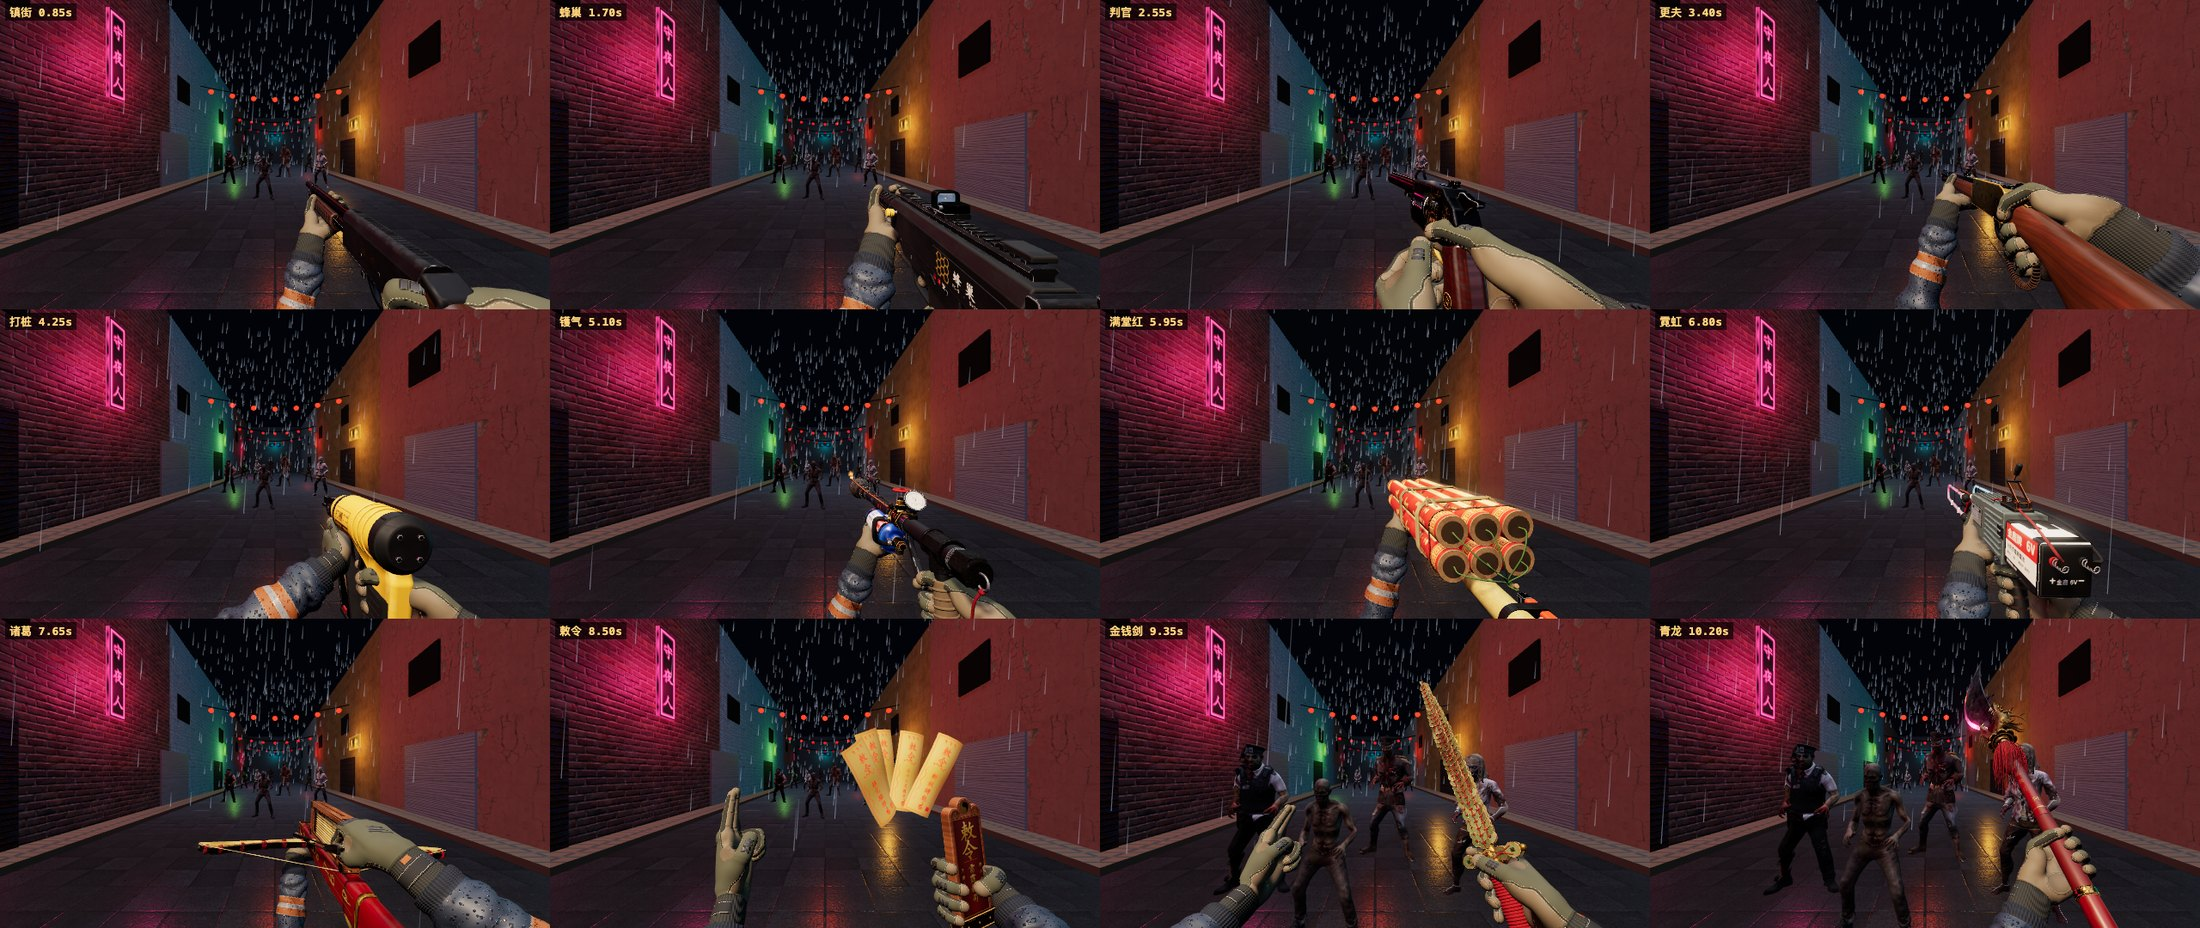
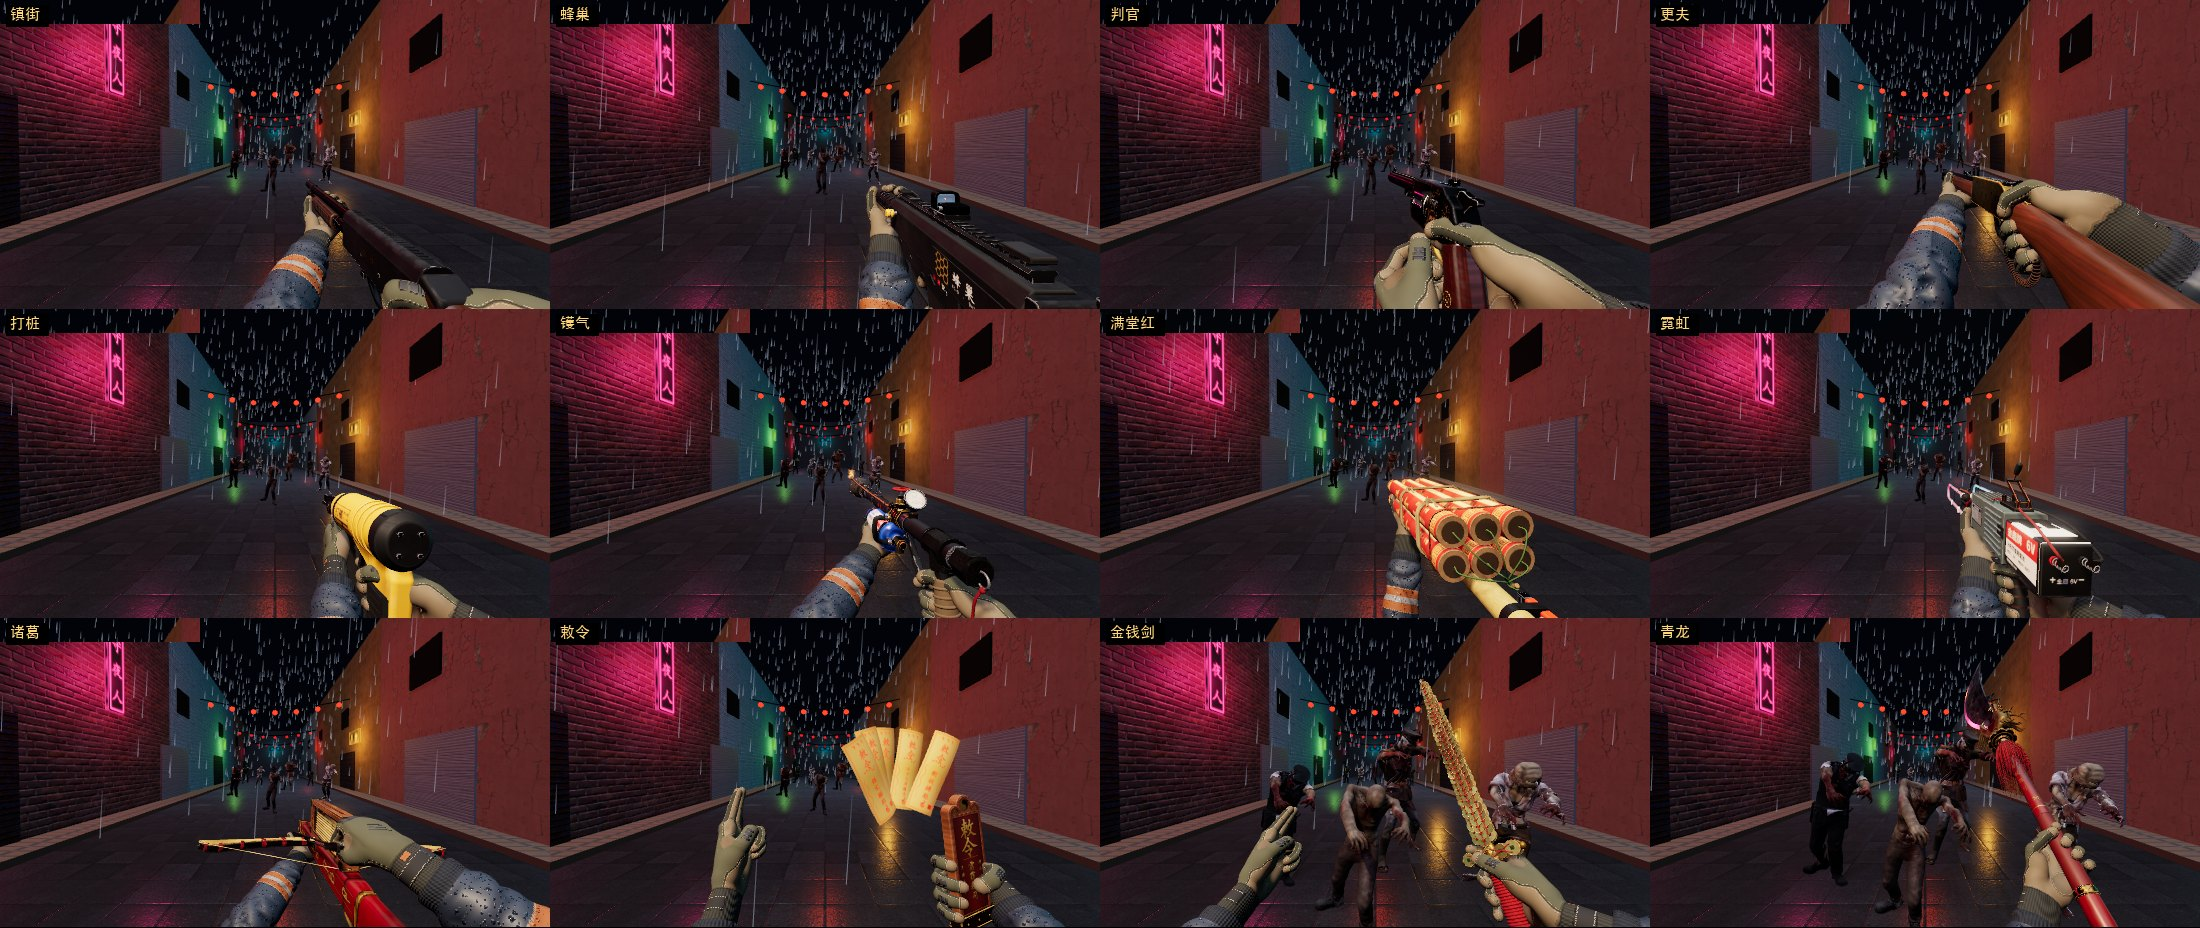
Keep the support hand's wrist straight (#13)
* Keep the support hand's wrist straight

The arm solver only minded a wrist once it was past its limits, and the
limits let it fold seventy or eighty degrees: the left forearm came
straight up under the weapon and the hand sat on it at a right angle
(45 to 77 degrees on half the weapons).

For the support hand the bend itself now counts, growing with the square
of what is past a relaxed angle, so the elbow swings to where the forearm
lines up with the hand; and the hand may turn a little on its grip to take
the rest out (17 degrees about the palm, 26 round what it holds; a grip
can set its own with `give`). An elbow that has found its place does not
leave it for a small gain far round the circle.

At rest the support wrist goes from 49 to 22 degrees on average, its worst
moment while firing and reloading from 73 to 49, and it is past its limits
less often than before. The trigger hand is solved exactly as it was.

Assisted-by: Cindy (https://cindy.app)

* Retake the picture of the hands on the twelve weapons

Assisted-by: Cindy (https://cindy.app)

Changed region(s): [[0.0, 0.0, 1.0, 1.0], [0.9582, 0.6562, 0.9891, 0.6875]]

diff --git a/arsenal/src/kit/hands.js b/arsenal/src/kit/hands.js
@@ -36,6 +36,32 @@ const LEAN_ANGLE = 0.9,
 const POLE_STEPS = 24,
   POLE_BIAS = 0.12,
   POLE_STICK = 0.05;
+// A wrist inside its limits is not yet a comfortable wrist: the game's limits let it bend
+// seventy or eighty degrees, and a hand at a right angle to its forearm looks broken long
+// before it is. So the bend itself is a strain, free up to a relaxed angle and growing with
+// the square of what is past it: [free (rad), weight] for bending forward or back, for
+// tilting to the thumb or little-finger side (a wrist has far less of that), and for the
+// forearm's twist.
+const EASE = { flex: [0.3, 1.1], dev: [0.14, 2.2], twist: [0.9, 0.6] };
+// (and what is past the limits counts double: easing the bend must not be paid for by
+// wringing the forearm round further than it goes)
+const PAST = 2;
+// This is the support hand's: the trigger hand is where the weapon's grip puts it, with a
+// finger on the trigger, and its arm is judged by its limits alone as before.
+const EASED = { left: true, right: false };
+// An elbow that has found its place should not leave it for a little gain somewhere far
+// round the circle (it would swing through worse on the way): what a new place costs, per
+// unit of 1 - cos of the angle from where the elbow is now.
+const POLE_TRAVEL = 0.2;
+// And a hand on a weapon is not bolted to it. It may turn a little where it lies to take the
+// kink out of the wrist: about the palm (the fingers cross the fore-end at more or less of a
+// slant) and round the thing it holds (the palm slides from under it towards its side).
+// [turn about the palm, slide round the handle] in radians, at most, for each hand: the
+// trigger hand stays exactly where the weapon put it. A grip can set its own with `give`.
+const GIVE = { left: [0.3, 0.45], right: [0, 0] };
+const GIVE_STEP = 0.06, // how far it looks to either side each frame
+  GIVE_COST = [0.6, 0.3], // what turning away from the grip as drawn costs (per rad squared)
+  HANDLE = 0.022; // palm to the middle of what it holds (m): what the slide goes round
 
 // ---------------------------------------------------------------- poses
 // fingers: [knuckle, middle joint, end joint, spread] in radians (0 = straight, ~1.5 = fully bent)
@@ -233,7 +259,26 @@ const _m = new THREE.Matrix4(),
   _base = new V3(),
   _perp = new V3(),
   _eyeInv = new THREE.Matrix4(),
-  _e = new THREE.Euler();
+  _e = new THREE.Euler(),
+  _qg = new THREE.Quaternion(),
+  _qt = new THREE.Quaternion(),
+  _core = new V3(),
+  _off = new V3();
+const AXIS_X = new V3(1, 0, 0),
+  AXIS_Y = new V3(0, 1, 0);
+const over = (v, free) => Math.max(0, Math.abs(v) - free);
+/** How hard a solved arm is on its wrist: past its limits, and how far from relaxed inside them. */
+function strain(ik) {
+  const f = over(ik.wristFlex, EASE.flex[0]),
+    d = over(ik.wristDeviation, EASE.dev[0]),
+    t = over(ik.twist, EASE.twist[0]);
+  return (
+    PAST * ik.violation +
+    EASE.flex[1] * f * f +
+    EASE.dev[1] * d * d +
+    EASE.twist[1] * t * t
+  );
+}
 // where a hand goes when it lets go of the weapon (reloading, weapon thrown): eye space
 const AWAY_VIEW = {
   right: new V3(0.3, -0.52, -0.16),
@@ -316,6 +361,8 @@ export function createArms(kit) {
   const away = { right: 0, left: 0 };
   const joints = { right: new Float32Array(20), left: new Float32Array(20) };
   const poles = { right: new V3(), left: new V3() };
+  // how far each hand has turned on its grip to ease its wrist: [about the palm, round the handle]
+  const gives = { right: [0, 0], left: [0, 0] };
   let last = null;
 
   const mixPose = (a, b, e) => {
@@ -380,73 +427,153 @@ export function createArms(kit) {
       _p.lerp(AWAY_VIEW[side], e);
       _q.slerp(AWAY_TURN[side], e);
     }
-    // the hand bone: turned round from grip space, its wrist behind the palm
-    _qh.copy(_q).multiply(GRIP_TO_BONE);
-    _wrist.copy(PALM_BONE).applyQuaternion(_qh).negate().add(_p);
+    const hurt = EASED[side] ? strain : (r) => r.violation;
+    // The hand bone: turned round from grip space, its wrist behind the palm. The hand may
+    // have turned a little on its grip (see GIVE): about the palm, and round the middle of
+    // what it holds, which stays where it is.
+    _core.set(0, -HANDLE, 0).applyQuaternion(_q).add(_p);
+    const handAt = (yaw, roll) => {
+      _qg.copy(_q);
+      if (yaw) _qg.multiply(_qt.setFromAxisAngle(AXIS_Y, yaw));
+      if (roll) _qg.multiply(_qt.setFromAxisAngle(AXIS_X, roll));
+      _qh.copy(_qg).multiply(GRIP_TO_BONE);
+      _off.set(0, -HANDLE, 0).applyQuaternion(_qg);
+      _wrist.copy(PALM_BONE).applyQuaternion(_qh).negate().add(_core).sub(_off);
+    };
+    const give = gives[side];
+    const lim = grip.give || GIVE[side];
+    // (a hand that has let go has nothing to turn on)
+    const free = o.mode === "fp" ? 1 - k * k * (3 - 2 * k) : 1;
+    const maxYaw = lim[0] * free,
+      maxRoll = lim[1] * free;
+    const clampGive = () => {
+      give[0] = Math.max(-maxYaw, Math.min(maxYaw, give[0]));
+      give[1] = Math.max(-maxRoll, Math.min(maxRoll, give[1]));
+    };
+    if (o.snap) give[0] = give[1] = 0;
+    clampGive();
+    handAt(give[0], give[1]);
+    const pole = poles[side];
+    _eyeInv.copy(eye).invert();
+    // (the showcase has no eye, but its arms are placed as the shooter's would be, so they are
+    // judged from where the shooter's eye would be and come out the same as in first person)
+    const seen = (e) => inView(_el.copy(e).applyMatrix4(_eyeInv));
     // Shoulder. A weapon is often held further out than the arm is long. The shoulder then
     // comes forward (the shooter leans in) and sinks, staying on its own side of the body, so
     // the arm still reaches in from the lower corner on its side: the upper arm and elbow
     // stay under the frame and the forearm rises into the picture at a slant.
-    _sh.fromArray(GH.SHOULDER[side]);
-    _eyeInv.copy(eye).invert();
-    _w.copy(_wrist).applyMatrix4(_eyeInv); // wrist in eye space (x right, y up, -z forward)
-    const far = _sh.distanceTo(_w) - REACH;
-    if (far > 0) {
-      const dx = _w.x - _sh.x;
-      if (Math.abs(dx) < REACH * 0.92) {
-        // on the circle of reach behind and below the wrist: from the angle the shoulder
-        // already sits at below the hand, towards LEAN_ANGLE as the reach gets longer
-        const rho = Math.sqrt(REACH * REACH - dx * dx);
-        const a0 = Math.atan2(_w.y - _sh.y, _sh.z - _w.z);
-        const a = a0 + Math.max(0, LEAN_ANGLE - a0) * sat(far / LEAN_OVER);
-        _sh.y = _w.y - rho * Math.sin(a);
-        _sh.z = _w.z + rho * Math.cos(a);
-      } else {
-        // a hand far out to the side: nothing for it but to follow
-        _sh.y -= Math.min(0.4, 1.2 * far);
-        _sh.sub(_w).setLength(REACH).add(_w);
+    const shoulder = () => {
+      _sh.fromArray(GH.SHOULDER[side]);
+      _w.copy(_wrist).applyMatrix4(_eyeInv); // wrist in eye space (x right, y up, -z forward)
+      const far = _sh.distanceTo(_w) - REACH;
+      if (far > 0) {
+        const dx = _w.x - _sh.x;
+        if (Math.abs(dx) < REACH * 0.92) {
+          // on the circle of reach behind and below the wrist: from the angle the shoulder
+          // already sits at below the hand, towards LEAN_ANGLE as the reach gets longer
+          const rho = Math.sqrt(REACH * REACH - dx * dx);
+          const a0 = Math.atan2(_w.y - _sh.y, _sh.z - _w.z);
+          const a = a0 + Math.max(0, LEAN_ANGLE - a0) * sat(far / LEAN_OVER);
+          _sh.y = _w.y - rho * Math.sin(a);
+          _sh.z = _w.z + rho * Math.cos(a);
+        } else {
+          // a hand far out to the side: nothing for it but to follow
+          _sh.y -= Math.min(0.4, 1.2 * far);
+          _sh.sub(_w).setLength(REACH).add(_w);
+        }
       }
-    }
-    _sh.applyMatrix4(eye);
-    // Elbow. It points out and down by default, as the game has it, but a hand turned palm-up
-    // under a fore-end (or far over on its side) needs the elbow somewhere else or the wrist is
-    // bent past what a wrist can do. So the elbow is swung round the shoulder-wrist line to
-    // where the wrist is most comfortable, staying near the default when there is little in
-    // it, and it moves there smoothly.
-    const pole = poles[side];
-    _axis.subVectors(_wrist, _sh).normalize();
-    _base.fromArray(GH.DEFAULT_POLE[side]).transformDirection(eye);
-    _base.addScaledVector(_axis, -_base.dot(_axis)).normalize();
-    _perp.crossVectors(_axis, _base);
+      _sh.applyMatrix4(eye);
+      _axis.subVectors(_wrist, _sh).normalize();
+      _base.fromArray(GH.DEFAULT_POLE[side]).transformDirection(eye);
+      _base.addScaledVector(_axis, -_base.dot(_axis)).normalize();
+      _perp.crossVectors(_axis, _base);
+    };
+    shoulder();
     if (o.snap || pole.lengthSq() < 0.5) pole.copy(_base);
     pole.addScaledVector(_axis, -pole.dot(_axis)).normalize();
     // (the first solve of the frame also tells the arm how far the wrist has moved, which its
     // own follow-through in update() feeds on, so update() comes straight after it)
-    // (the showcase has no eye, but its arms are placed as the shooter's would be, so they are
-    // judged from where the shooter's eye would be and come out the same as in first person)
-    const seen = (e) => inView(_el.copy(e).applyMatrix4(_eyeInv));
     let ik = arm.solve(_sh, _wrist, _qh, pole, null);
-    const before =
-      ik.violation + POLE_BIAS * (1 - pole.dot(_base)) + seen(ik.elbow);
     arm.update(dt);
-    let best = before - POLE_STICK,
-      bestC = 2,
-      bestS = 0;
-    for (let i = 0; i < POLE_STEPS; i++) {
-      const a = (i / POLE_STEPS) * Math.PI * 2,
-        c = Math.cos(a),
-        sn = Math.sin(a);
-      _pole.copy(_base).multiplyScalar(c).addScaledVector(_perp, sn);
-      ik = arm.solve(_sh, _wrist, _qh, _pole, null);
-      const score = ik.violation + POLE_BIAS * (1 - c) + seen(ik.elbow);
-      if (score < best) ((best = score), (bestC = c), (bestS = sn));
-    }
-    if (bestC <= 1) {
+    // Elbow. It points out and down by default, as the game has it, but a hand turned palm-up
+    // under a fore-end (or far over on its side) needs the elbow somewhere else or the wrist is
+    // bent further than a wrist likes. So the elbow is swung round the shoulder-wrist line to
+    // where the wrist is easiest, staying near the default when there is little in it.
+    const swing = (rate, travel) => {
+      ik = arm.solve(_sh, _wrist, _qh, pole, null);
+      let best =
+          hurt(ik) +
+          POLE_BIAS * (1 - pole.dot(_base)) +
+          seen(ik.elbow) -
+          POLE_STICK,
+        bestC = 2,
+        bestS = 0;
+      for (let i = 0; i < POLE_STEPS; i++) {
+        const a = (i / POLE_STEPS) * Math.PI * 2,
+          c = Math.cos(a),
+          sn = Math.sin(a);
+        _pole.copy(_base).multiplyScalar(c).addScaledVector(_perp, sn);
+        ik = arm.solve(_sh, _wrist, _qh, _pole, null);
+        const score =
+          hurt(ik) +
+          POLE_BIAS * (1 - c) +
+          seen(ik.elbow) +
+          travel * (1 - _pole.dot(pole));
+        if (score < best) ((best = score), (bestC = c), (bestS = sn));
+      }
+      if (bestC > 1) return;
       _pole.copy(_base).multiplyScalar(bestC).addScaledVector(_perp, bestS);
-      pole.lerp(_pole, o.snap ? 1 : Math.min(1, dt * 14));
+      pole.lerp(_pole, rate);
       // (straight through the middle when the target is opposite: step sideways instead)
       if (pole.lengthSq() < 1e-4) pole.copy(_perp);
       pole.normalize();
+    };
+    // The hand. With the elbow where it is, would the wrist be easier if the hand lay a
+    // little differently on the weapon? One small step each way about the palm and round the
+    // handle; it goes towards whichever is best, and pays for how far it has turned.
+    const settle = (rate) => {
+      if (!(maxYaw > 0 || maxRoll > 0)) return;
+      const at = (yaw, roll) => {
+        handAt(yaw, roll);
+        const r = arm.solve(_sh, _wrist, _qh, pole, null);
+        return (
+          hurt(r) +
+          seen(r.elbow) +
+          GIVE_COST[0] * yaw * yaw +
+          GIVE_COST[1] * roll * roll
+        );
+      };
+      let best = at(give[0], give[1]) - 0.004,
+        by = give[0],
+        br = give[1];
+      for (const [dy, dr] of [
+        [GIVE_STEP, 0],
+        [-GIVE_STEP, 0],
+        [0, GIVE_STEP],
+        [0, -GIVE_STEP],
+      ]) {
+        const y = Math.max(-maxYaw, Math.min(maxYaw, give[0] + dy)),
+          r = Math.max(-maxRoll, Math.min(maxRoll, give[1] + dr));
+        if (y === give[0] && r === give[1]) continue;
+        const c = at(y, r);
+        if (c < best) ((best = c), (by = y), (br = r));
+      }
+      give[0] += (by - give[0]) * rate;
+      give[1] += (br - give[1]) * rate;
+      handAt(give[0], give[1]);
+      shoulder();
+      pole.addScaledVector(_axis, -pole.dot(_axis)).normalize();
+    };
+    if (o.snap) {
+      // a weapon just taken up: find the pose at once instead of drifting into it
+      for (let i = 0; i < 14; i++) {
+        swing(1, 0);
+        settle(1);
+      }
+    } else {
+      const rate = Math.min(1, dt * 14);
+      swing(rate, EASED[side] ? POLE_TRAVEL : 0);
+      settle(Math.min(1, dt * 10));
     }
     arm.solve(_sh, _wrist, _qh, pole, null);
     // fingers
@@ -487,5 +614,8 @@ export function createArms(kit) {
     setVisible(v) {
       group.visible = !!v;
     },
+    /** How far each hand has turned on its grip to ease its wrist (for checks and tuning). */
+    give: gives,
+    strain,
   };
 }

diff --git a/arsenal/tests/hands.spec.js b/arsenal/tests/hands.spec.js
@@ -1,0 +1,51 @@
+// The support hand holds every weapon with a wrist that looks like a wrist: not folded
+// towards a right angle, and not past what a wrist can do. (The arm solver may bend a wrist
+// seventy or eighty degrees and still call it within limits; kit/hands.js counts the bend
+// itself as a strain and lets the hand turn a little on its grip.)
+import { test, expect } from "./fixtures.js";
+
+test("the support hand's wrist is nearly straight on every weapon", async ({
+  page,
+}) => {
+  await page.goto("/?mode=fp&ui=0&w=shotgun");
+  await page.waitForFunction("window.__ready === true", null, {
+    timeout: 90_000,
+  });
+  const rows = await page.evaluate(async () => {
+    const lab = window.__lab;
+    lab.manual = true;
+    const out = [];
+    for (const { id } of lab.weapons)
+      for (const b of ["base", "a", "b"]) {
+        lab.state.level = b === "base" ? 1 : 3;
+        lab.state.branch = b;
+        await lab.select(id, b);
+        lab.advance(0.8, 1 / 60, false);
+        const arm = lab.arms.arms.left;
+        if (!arm.group.visible) continue;
+        const k = arm.ik;
+        out.push({
+          form: id + ":" + b,
+          bend: Math.hypot(k.wristFlex, k.wristDeviation),
+          past: k.violation,
+          give: [...lab.arms.give.left],
+          right: lab.arms.give.right.some((v) => v !== 0),
+        });
+      }
+    return out;
+  });
+  expect(rows.length).toBeGreaterThan(20);
+  for (const r of rows) {
+    // (forty degrees: before the bend was counted, half of them were between 45 and 77)
+    expect(r.bend, `${r.form}: the wrist is bent`).toBeLessThan(0.7);
+    expect(r.past, `${r.form}: the wrist is past its limits`).toBeLessThan(
+      0.05,
+    );
+    // the hand has not turned further on its grip than it is allowed
+    expect(Math.abs(r.give[0])).toBeLessThanOrEqual(0.3 + 1e-6);
+    expect(Math.abs(r.give[1])).toBeLessThanOrEqual(0.45 + 1e-6);
+    // and the trigger hand stays exactly where the weapon put it
+    expect(r.right, `${r.form}: the trigger hand moved`).toBe(false);
+  }
+  expect(await page.evaluate(() => window.__errors)).toEqual([]);
+});

diff --git a/arsenal/src/kit/index.js b/arsenal/src/kit/index.js
@@ -139,6 +139,8 @@ export function createKit() {
    *                pose: "pistol" | "cradle" | "wrap" | { base, r, index, thumb, ... },  // see kit/hands.js
    *                trigger: true,      // index finger follows the trigger
    *                parent: node,       // ride a moving part (pump, lever, bolt handle)
+   *                give: [a, b],       // optional: how far the hand may turn on this grip to keep
+   *                                    // its wrist straight (rad): about the palm, round the handle
    *                elbow: [x,y,z] }    // optional elbow position in view space
    *     view: { hip: { pos, rot }, ads: { pos, rot } },   // camera-space pose of the gun origin
    *     show: { yaw, pitch, dist, target: [x,y,z] },      // default showcase framing
@@ -207,6 +209,7 @@ export function createKit() {
           anchor: o,
           pose: g.pose || "wrap",
           trigger: !!g.trigger,
+          give: g.give || null,
           elbow: g.elbow || null,
           away: 0,
           alts,
